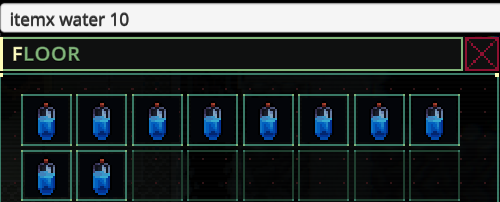
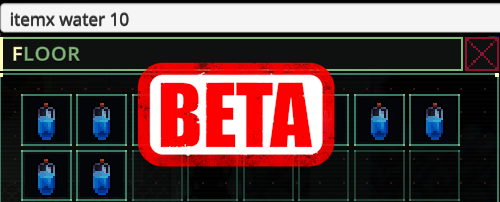
Version 0.8.6 compatibility

Changed region(s): [[0.27, 0.297, 0.69, 0.8317]]

diff --git a/src/ItemXCommand.cs b/src/ItemXCommand.cs
@@ -7,6 +7,7 @@ using UnityEngine;
 
 namespace QM_SpawnMultipleCommand
 {
+    [ConsoleCommand(new string[] { "itemx" })]
     public class ItemXCommand
     {
 
@@ -15,13 +16,11 @@ namespace QM_SpawnMultipleCommand
         /// </summary>
         private static bool ErrorHasBeenShown { get; set; } = false;
 
-        public static string CommandName { get; set; } = "itemx";
-
         private static ConsoleDaemon.CommandInterface SpawnItemCommand { get; set; }
 
         private static void Write(string text)
         {
-            DevConsoleUI.Instance.PrintText(text);
+            UI.Get<DevConsole>().PrintText(text);
         }
 
         public static string Help(string command, bool verbose)
@@ -114,9 +113,11 @@ namespace QM_SpawnMultipleCommand
 
         public static bool IsAvailable()
         {
+            DevConsole devConsole = UI.Get<DevConsole>();
+
             if (SpawnItemCommand == null)
             {
-                if (ConsoleDaemon.Instance.Commands.TryGetValue("item", out ConsoleDaemon.CommandInterface command))
+                if(devConsole.Daemon._commands.TryGetValue("item", out ConsoleDaemon.CommandInterface command))
                 {
                     SpawnItemCommand = command;
                 }
@@ -127,7 +128,7 @@ namespace QM_SpawnMultipleCommand
                 if (!ErrorHasBeenShown)
                 {
                     ErrorHasBeenShown = true;
-                    DevConsoleUI.Instance.PrintText("Unable to find the game's Item console command");
+                    devConsole.PrintText("Unable to find the game's Item console command");
                 }
                 return false;
             }

diff --git a/README.md b/README.md
@@ -2,6 +2,16 @@
 
 ![thumbnail icon](media/thumbnail.png)
 
+# Important - This is only for the opt in beta version of the game!
+
+This is a temporary version that supports the 0.8.6 beta, and not the current game's version.
+The non beta version *must* be uninstalled.  
+When the 0.8.6 becomes the main version, this mod will be deleted.
+Note that the beta is expected to change many times before release.
+As such, this mod may break on each beta release.
+
+# Docs
+
 Executes the console's item command multiple times to drop more than one item.
 
 Ex:
@@ -17,3 +27,6 @@ Thanks!
 
 # Source Code
 Source code is available on GitHub at https://github.com/NBKRedSpy/QM_SpawnMultipleCommand
+
+## 1.1.0
+* Version 0.8.6 compatibility
